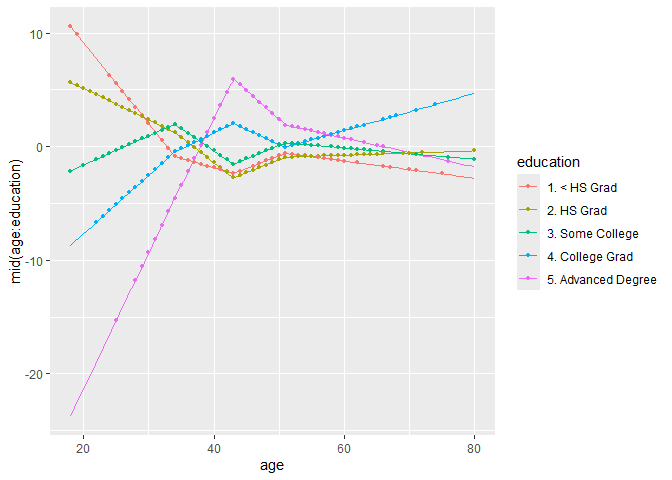
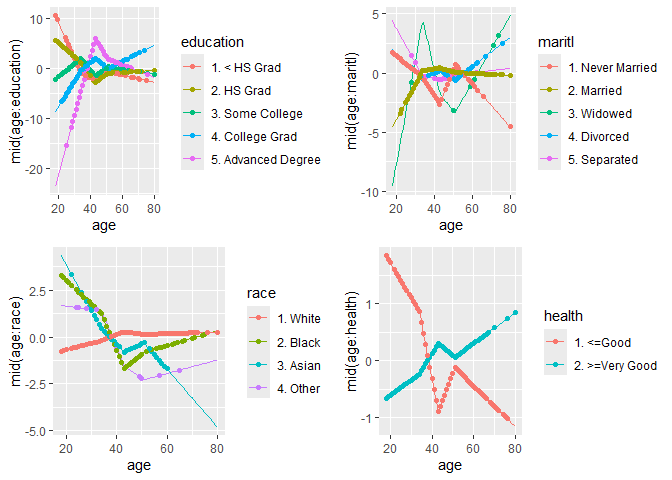
version 0.2.3... - a small update of readme.Rmd

diff --git a/README.md b/README.md
@@ -198,10 +198,13 @@ ggmid(mc, variable.colour = education, alpha = .2)
 <img src="man/figures/README-conditional-1.png" width="100%" />
 
 ``` r
-# visualize effects of the component function
-ggmid(mc, term = "education:age", variable.colour = education,
-      draw.dots = FALSE) +
-  geom_point(size = 1)
+# visualize the effects of each component function
+grid.arrange(
+  ggmid(mc, term = "age:education", variable.colour = education),
+  ggmid(mc, term = "maritl:age", variable.colour = maritl),
+  ggmid(mc, term = "age:race", variable.colour = race),
+  ggmid(mc, term = "age:health", variable.colour = health)
+)
 ```
 
 <img src="man/figures/README-conditional-2.png" width="100%" />
